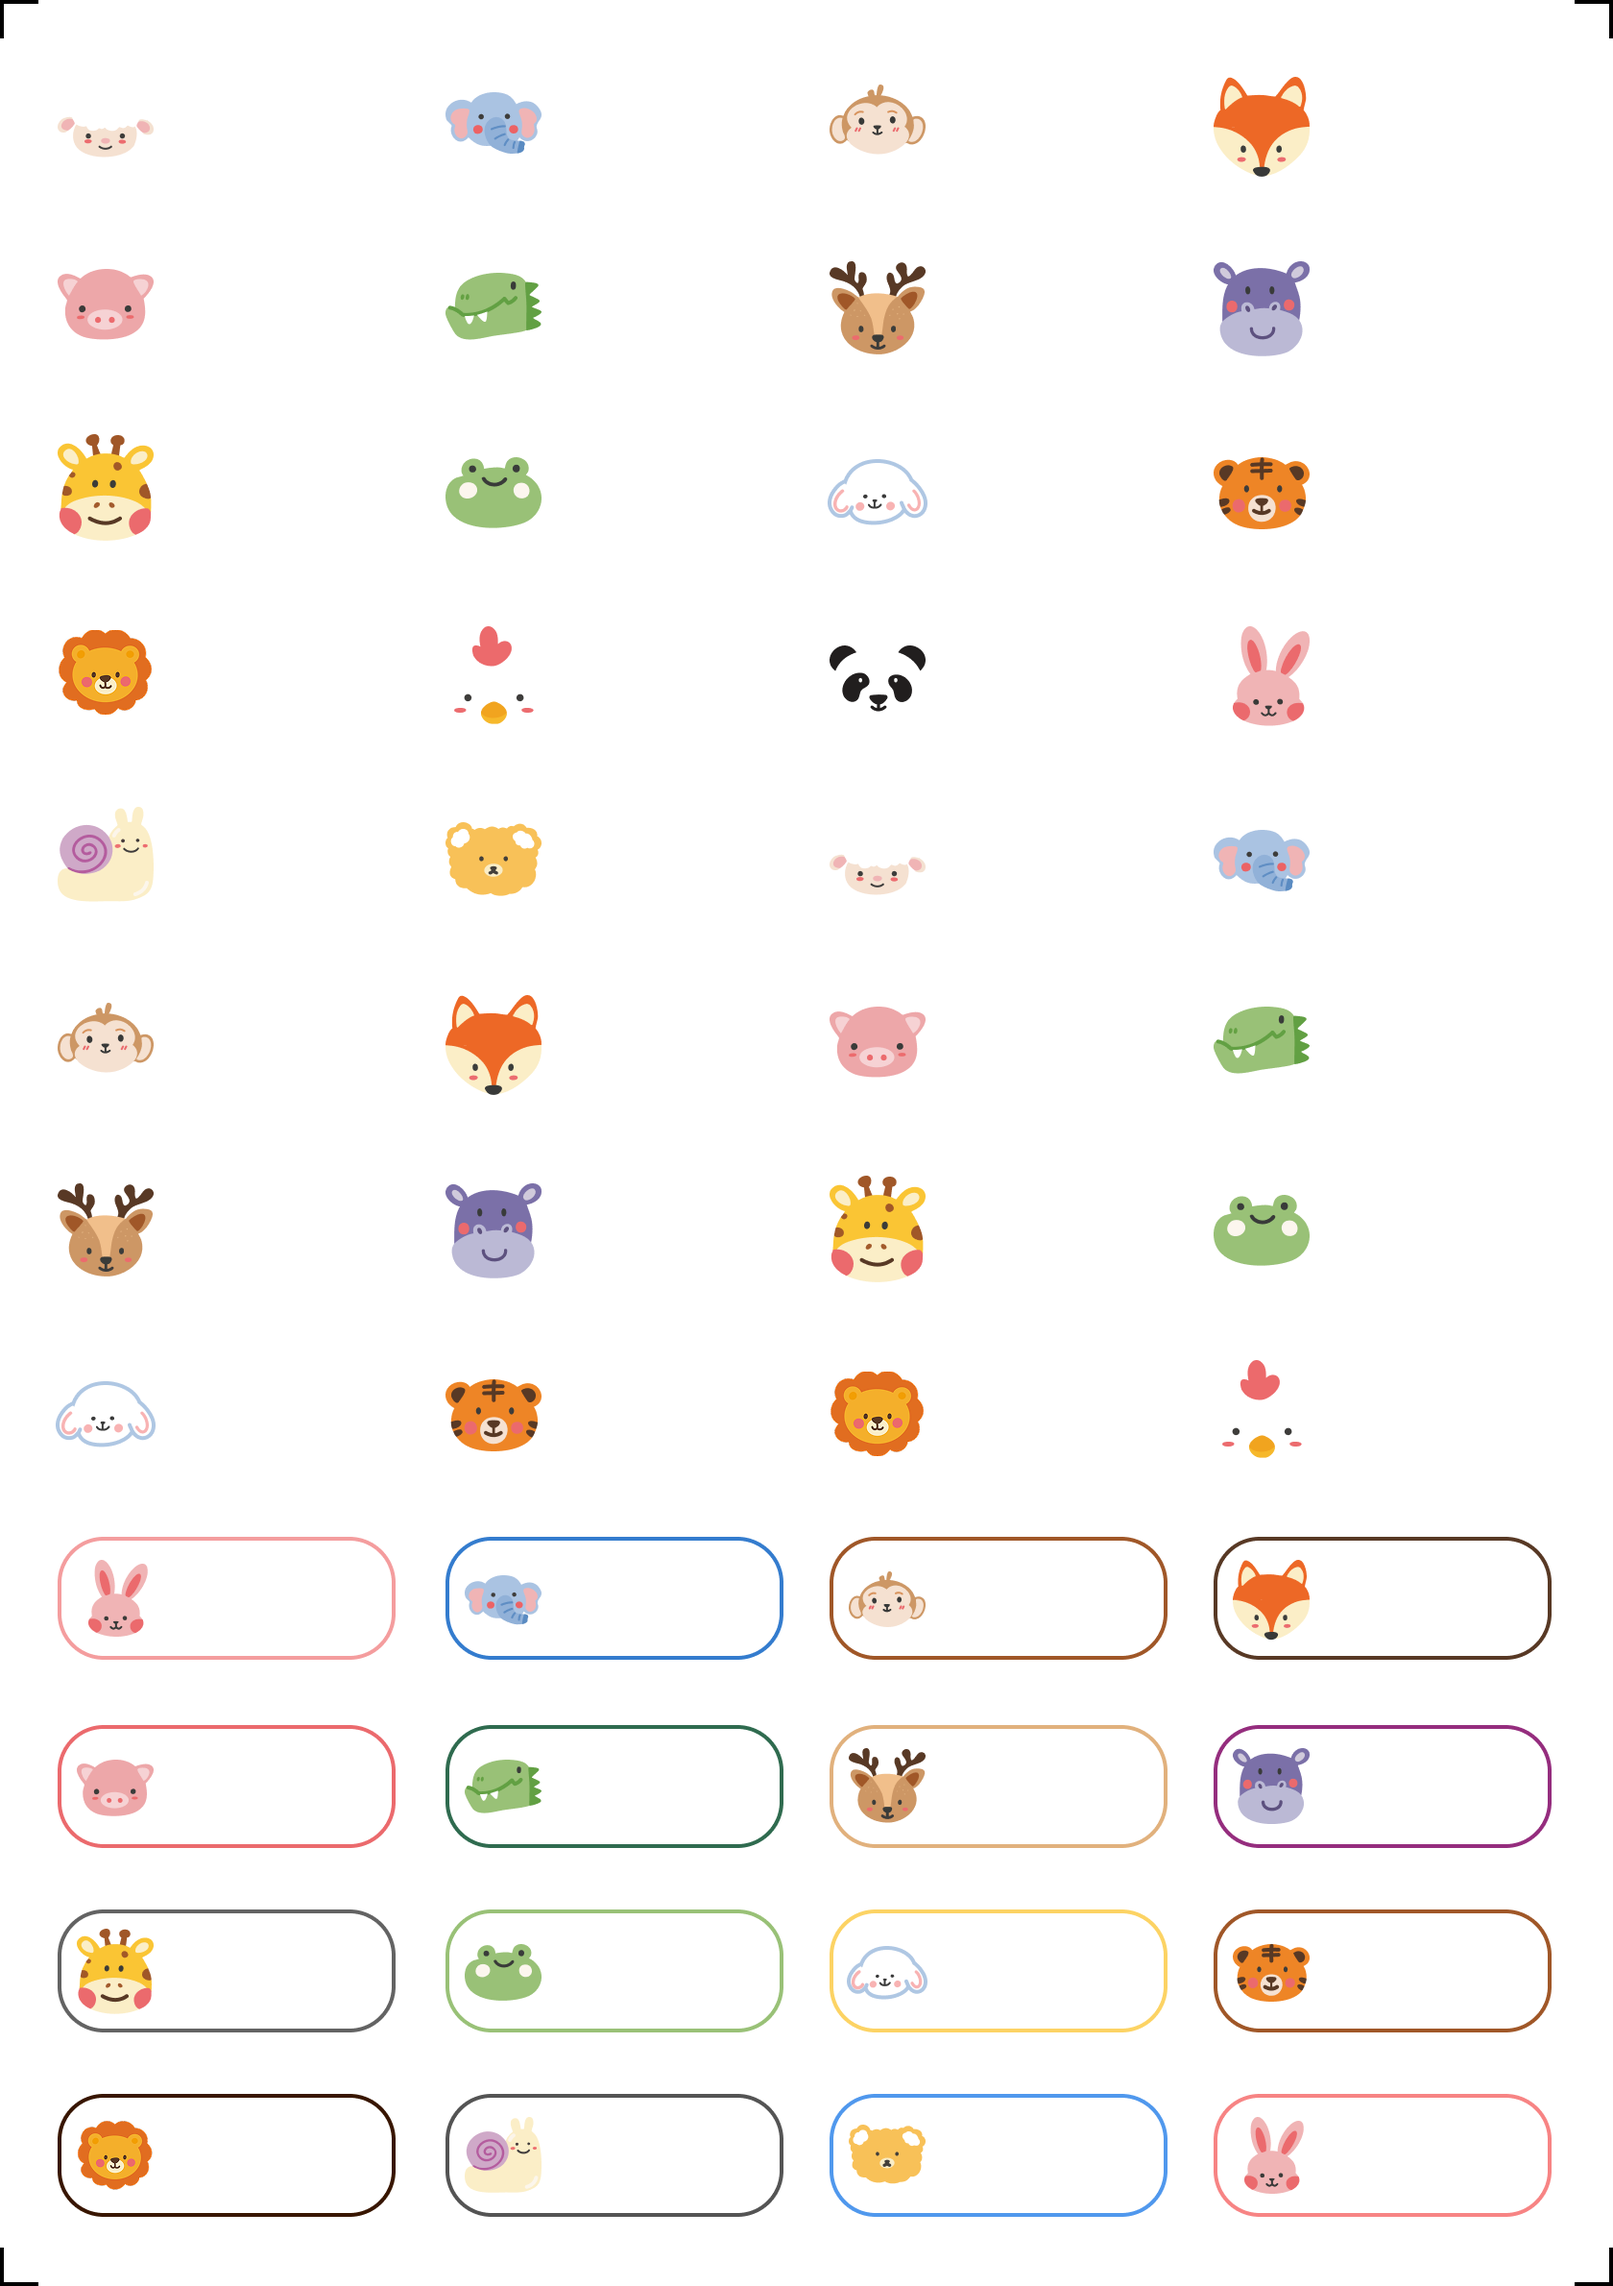
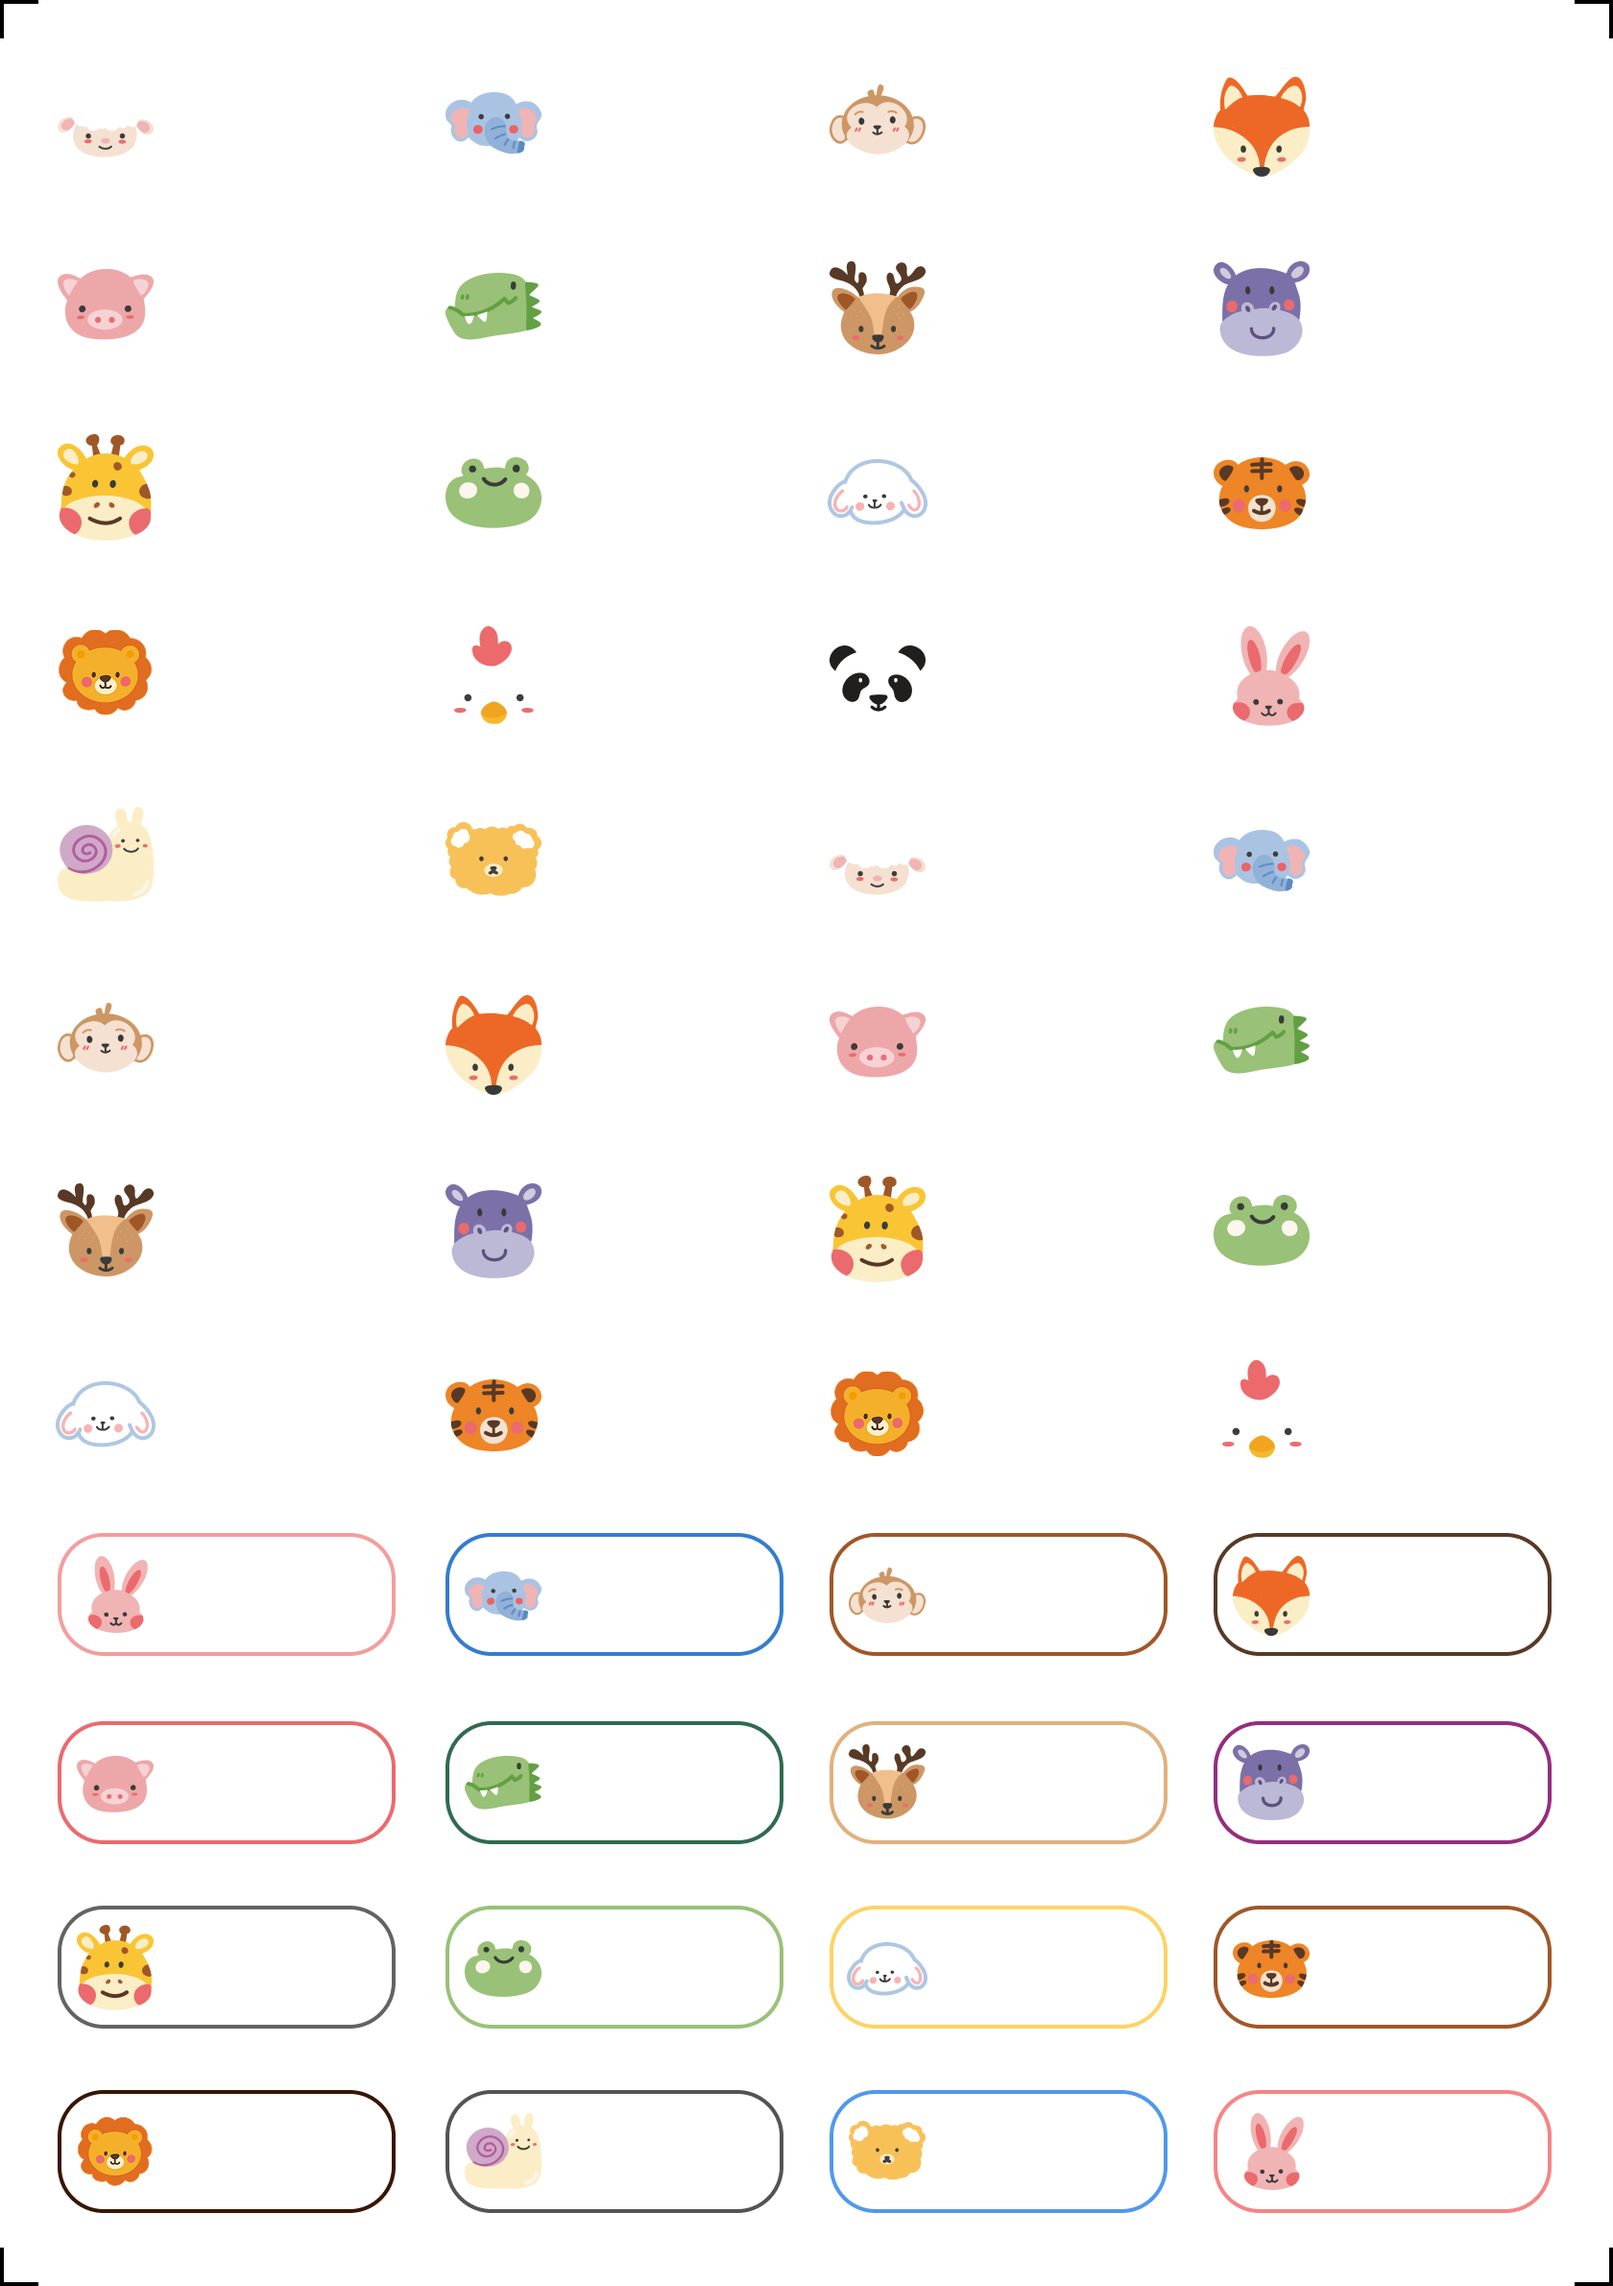
1

diff --git a/customizer.js b/customizer.js
@@ -1196,14 +1196,14 @@ function initCustomizer(root) {
         const base = twoLines
           ? step(16, 14, 14, 14)
           : step(18, 16, 13, 11);
-        const bottomScale = twoLines ? 0.9 : 1;
+        const bottomScale = twoLines ? 0.95 : 1;
         return area === "bottom" ? Math.round(base * bottomScale) : base;
       }
       if (size === "medium") {
         const base = twoLines
           ? step(22, 18, 18, 18)
           : step(22, 20, 18, 17);
-        const bottomScale = twoLines ? 0.9 : 0.95;
+        const bottomScale = twoLines ? 0.95 : 0.95;
         return area === "bottom" ? Math.round(base * bottomScale) : base;
       }
       if (size === "large") {
